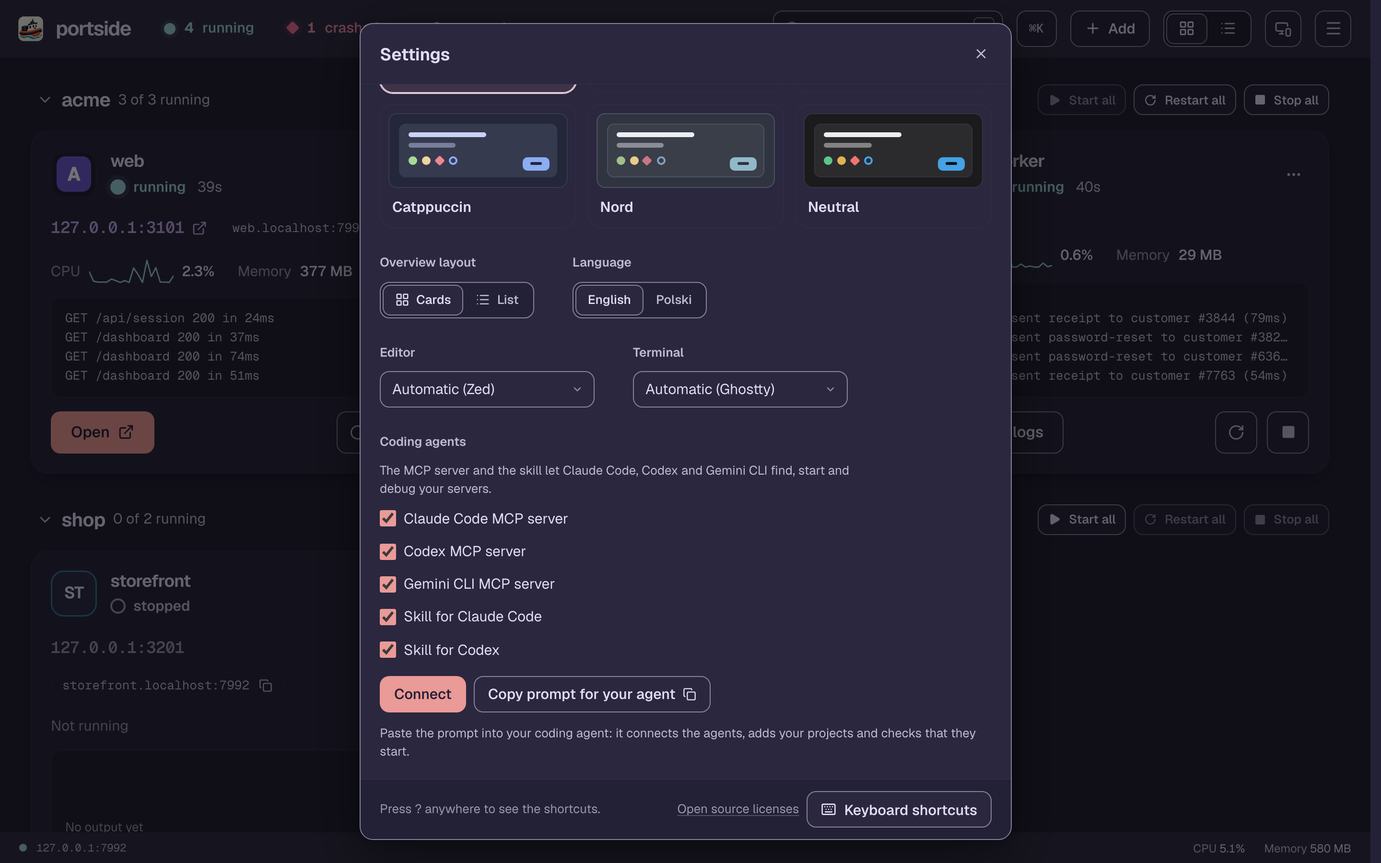
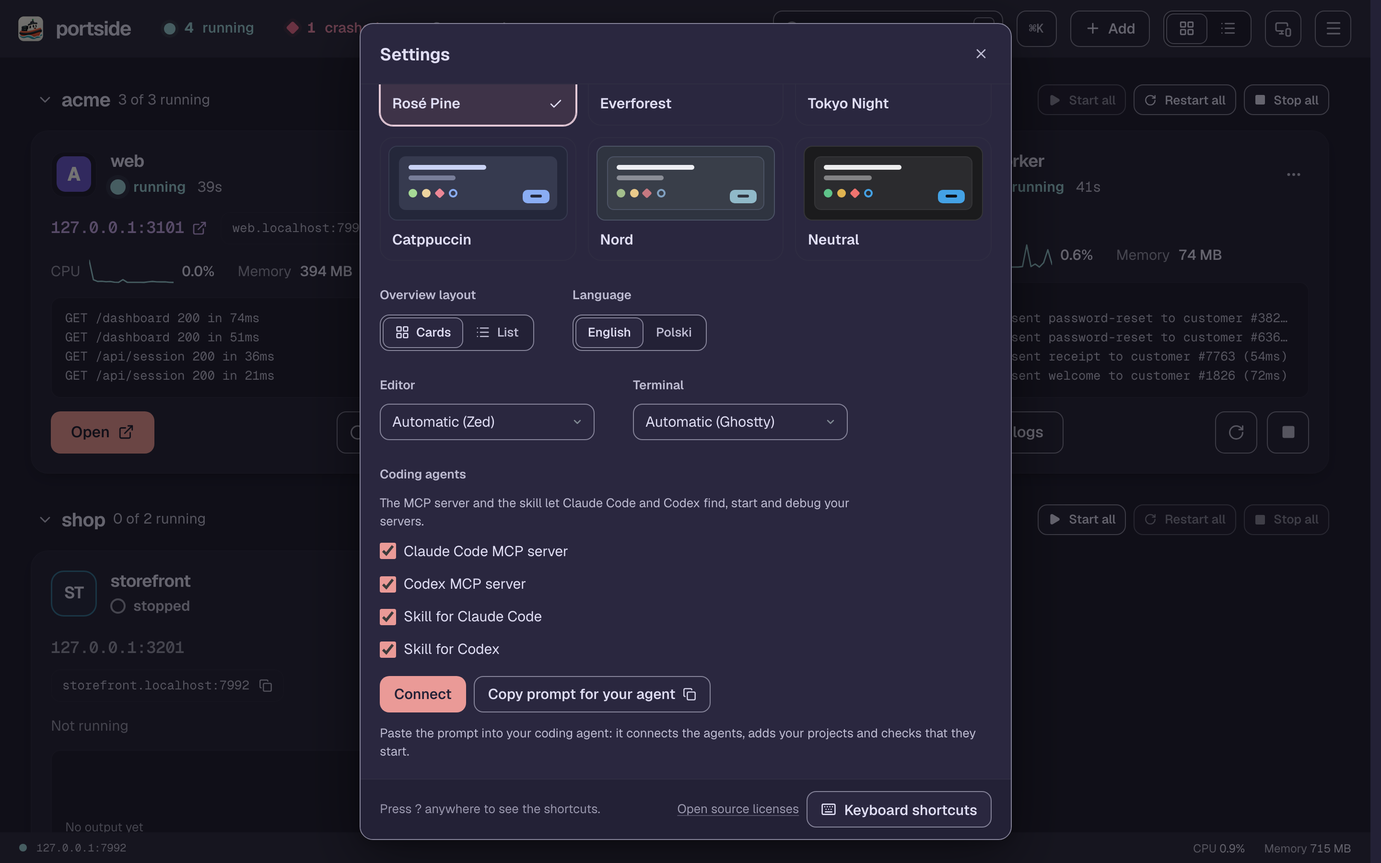
Coding agents: set up Claude Code and Codex only, without Gemini CLI

diff --git a/web/src/i18n/dictionary.ts b/web/src/i18n/dictionary.ts
@@ -315,8 +315,8 @@ export const en = {
 
   'agents.title': 'Coding agents',
   'agents.open': 'Connect coding agents',
-  'agents.body': 'The MCP server and the skill let Claude Code, Codex and Gemini CLI find, start and debug your servers.',
-  'agents.none': 'No coding agent (Claude Code, Codex, Gemini CLI) is installed for this account.',
+  'agents.body': 'The MCP server and the skill let Claude Code and Codex find, start and debug your servers.',
+  'agents.none': 'No coding agent (Claude Code or Codex) is installed for this account.',
   'agents.mcp': '{agent} MCP server',
   'agents.skill': 'Skill for {agent}',
   'agents.update': '{label} (update)',
@@ -811,8 +811,8 @@ export const pl: Record<Key, Message> = {
 
   'agents.title': 'Agenci kodujący',
   'agents.open': 'Podłącz agentów kodujących',
-  'agents.body': 'Serwer MCP i umiejętność pozwalają agentom Claude Code, Codex i Gemini CLI znajdować, uruchamiać i debugować Twoje serwery.',
-  'agents.none': 'Na tym koncie nie ma agenta (Claude Code, Codex, Gemini CLI).',
+  'agents.body': 'Serwer MCP i umiejętność pozwalają agentom Claude Code i Codex znajdować, uruchamiać i debugować Twoje serwery.',
+  'agents.none': 'Na tym koncie nie ma agenta (Claude Code ani Codex).',
   'agents.mcp': 'Serwer MCP dla {agent}',
   'agents.skill': 'Umiejętność dla {agent}',
   'agents.update': '{label} (aktualizacja)',

diff --git a/web/src/api/types.ts b/web/src/api/types.ts
@@ -238,7 +238,7 @@ export interface AppsView {
 
 /** One coding-agent setup step on this computer (internal/agentsetup). */
 export interface AgentItem {
-  /** `<agent>-mcp` or `<agent>-skill`, agent being claude, codex or gemini. */
+  /** `<agent>-mcp` or `<agent>-skill`, agent being claude or codex. */
   id: string
   state: 'ok' | 'missing' | 'outdated' | 'foreign' | 'unavailable'
   /** What applying it runs, or what to run by hand. */

diff --git a/web/src/features/agents/AgentSetup.tsx b/web/src/features/agents/AgentSetup.tsx
@@ -6,7 +6,7 @@ import { useT, type Translate } from '../../i18n'
 import { CopyButton } from '../../ui/CopyButton'
 import './agents.css'
 
-const AGENTS: Record<string, string> = { claude: 'Claude Code', codex: 'Codex', gemini: 'Gemini CLI' }
+const AGENTS: Record<string, string> = { claude: 'Claude Code', codex: 'Codex' }
 
 function label(t: Translate, item: AgentItem): string {
   const [agent = '', kind] = item.id.split('-')

diff --git a/internal/agentsetup/agentsetup.go b/internal/agentsetup/agentsetup.go
@@ -1,7 +1,7 @@
 // Package agentsetup is the optional setup for coding agents: the MCP server
-// registered with Claude Code, Codex and Gemini CLI, and the agent skill in
-// the Claude Code and Codex skill directories. It checks each item and
-// applies the missing ones, for `setup`, `doctor` and the menu bar app.
+// registered with Claude Code and Codex, and the agent skill in their skill
+// directories. It checks each item and applies the missing ones, for
+// `setup`, `doctor` and the menu bar app.
 package agentsetup
 
 import (
@@ -69,34 +69,26 @@ type Result struct {
 	Command string `json:"command,omitempty"`
 }
 
-// agent is a coding agent that can use the MCP server, and the skill when
-// it has a skill item.
+// agent is a coding agent that can use the MCP server and the skill.
 type agent struct {
 	key  string // item ID prefix; the agent of agentskill.Target
 	name string
 	cli  string
 	// dir is its configuration directory; it exists once the agent ran.
 	dir func(agentskill.Dirs) string
-	// envKey is the variable that moves dir; home gives its value for dirs
-	// and the default value.
+	// envKey is the variable that moves dir; def is dir's default.
 	envKey string
-	home   func(d agentskill.Dirs, def bool) string
+	def    func(agentskill.Dirs) string
 	// registered reports whether the MCP server is configured for it.
 	registered func(agentskill.Dirs) bool
 	add        func(exe string) []string // arguments that register the MCP server
-	skill      bool
 }
 
 var agents = []agent{
-	{key: "claude", name: "Claude Code", cli: "claude", skill: true,
+	{key: "claude", name: "Claude Code", cli: "claude",
 		dir:    func(d agentskill.Dirs) string { return d.Claude },
 		envKey: "CLAUDE_CONFIG_DIR",
-		home: func(d agentskill.Dirs, def bool) string {
-			if def {
-				return filepath.Join(d.Home, ".claude")
-			}
-			return d.Claude
-		},
+		def:    func(d agentskill.Dirs) string { return filepath.Join(d.Home, ".claude") },
 		registered: func(d agentskill.Dirs) bool {
 			// The file is in the home directory, or in CLAUDE_CONFIG_DIR
 			// when that is set.
@@ -108,15 +100,10 @@ var agents = []agent{
 		add: func(exe string) []string {
 			return []string{"mcp", "add", "--scope", "user", app.ID, "--", exe, "mcp"}
 		}},
-	{key: "codex", name: "Codex", cli: "codex", skill: true,
+	{key: "codex", name: "Codex", cli: "codex",
 		dir:    func(d agentskill.Dirs) string { return d.Codex },
 		envKey: "CODEX_HOME",
-		home: func(d agentskill.Dirs, def bool) string {
-			if def {
-				return filepath.Join(d.Home, ".codex")
-			}
-			return d.Codex
-		},
+		def:    func(d agentskill.Dirs) string { return filepath.Join(d.Home, ".codex") },
 		registered: func(d agentskill.Dirs) bool {
 			var cfg struct {
 				MCPServers map[string]toml.Primitive `toml:"mcp_servers"`
@@ -129,21 +116,6 @@ var agents = []agent{
 		},
 		add: func(exe string) []string {
 			return []string{"mcp", "add", app.ID, "--", exe, "mcp"}
-		}},
-	{key: "gemini", name: "Gemini CLI", cli: "gemini",
-		dir:    func(d agentskill.Dirs) string { return d.Gemini },
-		envKey: "GEMINI_CLI_HOME",
-		home: func(d agentskill.Dirs, def bool) string {
-			if def {
-				return d.Home
-			}
-			return filepath.Dir(d.Gemini)
-		},
-		registered: func(d agentskill.Dirs) bool {
-			return jsonHasServer(filepath.Join(d.Gemini, "settings.json"))
-		},
-		add: func(exe string) []string {
-			return []string{"mcp", "add", "--scope", "user", app.ID, exe, "mcp"}
 		}},
 }
 
@@ -242,8 +214,8 @@ func mcpItem(a agent, dirs agentskill.Dirs, exe string, t *tools) Item {
 // is not the default, since it may come only from the login shell's startup
 // files, which a CLI found on this process's PATH does not see.
 func agentEnv(a agent, dirs agentskill.Dirs, env []string) []string {
-	v := a.home(dirs, false)
-	if v == a.home(dirs, true) {
+	v := a.dir(dirs)
+	if v == a.def(dirs) {
 		return env
 	}
 	if env == nil {
@@ -269,9 +241,6 @@ func skillItems(dirs agentskill.Dirs, self, content string) []Item {
 	}
 	var items []Item
 	for i, a := range agents {
-		if !a.skill {
-			continue
-		}
 		path, ok := targets[a.key]
 		if !ok && installed(a) {
 			// Its skills directory is an earlier agent's, so that item covers it.
@@ -279,7 +248,7 @@ func skillItems(dirs agentskill.Dirs, self, content string) []Item {
 		}
 		label := "Skill for " + a.name
 		for _, b := range agents[i+1:] {
-			if _, own := targets[b.key]; b.skill && ok && !own && installed(b) {
+			if _, own := targets[b.key]; ok && !own && installed(b) {
 				label += " and " + b.name
 			}
 		}

diff --git a/internal/agentsetup/agentsetup_test.go b/internal/agentsetup/agentsetup_test.go
@@ -20,7 +20,7 @@ func fakeCLI(t *testing.T, bin, name string, code int) {
 	t.Helper()
 	script := `#!/bin/sh
 { printf '%s' "${0##*/}"; for a in "$@"; do printf ' %s' "$a"; done; printf '\n'; } >> "$FAKE_LOG"
-printf '%s CLAUDE_CONFIG_DIR=%s CODEX_HOME=%s GEMINI_CLI_HOME=%s\n' "${0##*/}" "$CLAUDE_CONFIG_DIR" "$CODEX_HOME" "$GEMINI_CLI_HOME" >> "$FAKE_ENV_LOG"
+printf '%s CLAUDE_CONFIG_DIR=%s CODEX_HOME=%s\n' "${0##*/}" "$CLAUDE_CONFIG_DIR" "$CODEX_HOME" >> "$FAKE_ENV_LOG"
 `
 	if code != 0 {
 		script += "echo 'fake failure' >&2\nexit " + strconv.Itoa(code) + "\n"
@@ -59,7 +59,7 @@ func newSandbox(t *testing.T, clis map[string]int) sandbox {
 	t.Setenv("TERM", "dumb")
 	t.Setenv("FAKE_LOG", s.log)
 	t.Setenv("FAKE_ENV_LOG", s.envLog)
-	for _, k := range []string{"CLAUDE_CONFIG_DIR", "CODEX_HOME", "GEMINI_CLI_HOME"} {
+	for _, k := range []string{"CLAUDE_CONFIG_DIR", "CODEX_HOME"} {
 		t.Setenv(k, "")
 	}
 	self, err := os.Executable()
@@ -115,17 +115,16 @@ func byID(items []Item) map[string]Item {
 	return m
 }
 
-var allCLIs = map[string]int{"claude": 0, "codex": 0, "gemini": 0}
+var allCLIs = map[string]int{"claude": 0, "codex": 0}
 
 // agentConfigs are the files the agents keep their MCP servers in; only
 // their own CLIs may write them.
-var agentConfigs = []string{".claude.json", ".claude/.claude.json", ".codex/config.toml", ".gemini/settings.json"}
+var agentConfigs = []string{".claude.json", ".claude/.claude.json", ".codex/config.toml"}
 
 func TestCheckStatesAndApplyRunsAgentCLIs(t *testing.T) {
 	s := newSandbox(t, allCLIs)
 	s.mkdir(t, ".claude")
 	s.mkdir(t, ".codex")
-	s.mkdir(t, ".gemini")
 	cfg := filepath.Join(s.home, "cfg.toml")
 
 	items := Check(7123, cfg)
@@ -135,7 +134,6 @@ func TestCheckStatesAndApplyRunsAgentCLIs(t *testing.T) {
 	}{
 		"claude-mcp":   {Missing, "claude mcp add --scope user " + app.ID + " -- " + s.exe + " mcp"},
 		"codex-mcp":    {Missing, "codex mcp add " + app.ID + " -- " + s.exe + " mcp"},
-		"gemini-mcp":   {Missing, "gemini mcp add --scope user " + app.ID + " " + s.exe + " mcp"},
 		"claude-skill": {Missing, app.ID + " skill install"},
 		"codex-skill":  {Missing, app.ID + " skill install"},
 	}
@@ -162,7 +160,6 @@ func TestCheckStatesAndApplyRunsAgentCLIs(t *testing.T) {
 	wantArgv := []string{
 		"claude mcp add --scope user " + app.ID + " -- " + s.exe + " mcp",
 		"codex mcp add " + app.ID + " -- " + s.exe + " mcp",
-		"gemini mcp add --scope user " + app.ID + " " + s.exe + " mcp",
 	}
 	if argv := lines(t, s.log); strings.Join(argv, "\n") != strings.Join(wantArgv, "\n") {
 		t.Errorf("agent CLIs ran\n%s\nwant\n%s", strings.Join(argv, "\n"), strings.Join(wantArgv, "\n"))
@@ -189,7 +186,6 @@ func TestCheckStatesAndApplyRunsAgentCLIs(t *testing.T) {
 	}
 	s.write(t, ".claude.json", `{"mcpServers":{"`+app.ID+`":{"command":"x"}}}`)
 	s.write(t, ".codex/config.toml", "[mcp_servers."+app.ID+"]\ncommand = \"x\"\n")
-	s.write(t, ".gemini/settings.json", `{"mcpServers":{"`+app.ID+`":{}}}`)
 	for id, it := range byID(Check(7123, cfg)) {
 		if it.State != OK {
 			t.Errorf("%s = %s with the server registered, want ok", id, it.State)
@@ -276,9 +272,9 @@ func TestMCPItemWithoutCLI(t *testing.T) {
 }
 
 func TestApplyReportsCLIFailure(t *testing.T) {
-	s := newSandbox(t, map[string]int{"claude": 0, "codex": 0, "gemini": 3})
-	s.mkdir(t, ".gemini")
-	it := byID(Check(7123, "/cfg.toml"))["gemini-mcp"]
+	s := newSandbox(t, map[string]int{"claude": 0, "codex": 3})
+	s.mkdir(t, ".codex")
+	it := byID(Check(7123, "/cfg.toml"))["codex-mcp"]
 	r := Apply(context.Background(), []Item{it})[0]
 	if r.OK || r.Changed || !strings.Contains(r.Error, "fake failure") || r.Command != it.Command {
 		t.Errorf("Apply = %+v, want a failure with the CLI's message and the manual command", r)

diff --git a/internal/agentskill/agentskill_test.go b/internal/agentskill/agentskill_test.go
@@ -17,7 +17,7 @@ func isolate(t *testing.T) string {
 	home := t.TempDir()
 	t.Setenv("HOME", home)
 	t.Setenv("TERM", "dumb")
-	for _, k := range []string{"CLAUDE_CONFIG_DIR", "CODEX_HOME", "GEMINI_CLI_HOME"} {
+	for _, k := range []string{"CLAUDE_CONFIG_DIR", "CODEX_HOME"} {
 		t.Setenv(k, "")
 	}
 	return home
@@ -73,30 +73,28 @@ func TestLocateHonoursAgentVariables(t *testing.T) {
 	custom := t.TempDir()
 	tests := []struct {
 		name                string
-		claude, codex, gem  string // variable values
+		claude, codex       string // variable values
 		wantClaude, wantCdx string
-		wantGemini          string
 	}{
-		{"defaults", "", "", "",
-			filepath.Join(home, ".claude"), filepath.Join(home, ".codex"), filepath.Join(home, ".gemini")},
-		{"absolute", filepath.Join(custom, "c"), filepath.Join(custom, "x"), filepath.Join(custom, "g"),
-			filepath.Join(custom, "c"), filepath.Join(custom, "x"), filepath.Join(custom, "g", ".gemini")},
-		{"tilde", "~/cc", "~/cx", "~/cg",
-			filepath.Join(home, "cc"), filepath.Join(home, "cx"), filepath.Join(home, "cg", ".gemini")},
-		{"relative ignored", "rel/c", "rel/x", "rel/g",
-			filepath.Join(home, ".claude"), filepath.Join(home, ".codex"), filepath.Join(home, ".gemini")},
+		{"defaults", "", "",
+			filepath.Join(home, ".claude"), filepath.Join(home, ".codex")},
+		{"absolute", filepath.Join(custom, "c"), filepath.Join(custom, "x"),
+			filepath.Join(custom, "c"), filepath.Join(custom, "x")},
+		{"tilde", "~/cc", "~/cx",
+			filepath.Join(home, "cc"), filepath.Join(home, "cx")},
+		{"relative ignored", "rel/c", "rel/x",
+			filepath.Join(home, ".claude"), filepath.Join(home, ".codex")},
 	}
 	for _, tt := range tests {
 		t.Run(tt.name, func(t *testing.T) {
 			t.Setenv("CLAUDE_CONFIG_DIR", tt.claude)
 			t.Setenv("CODEX_HOME", tt.codex)
-			t.Setenv("GEMINI_CLI_HOME", tt.gem)
 			d, err := Locate()
 			if err != nil {
 				t.Fatal(err)
 			}
-			if d.Home != home || d.Claude != tt.wantClaude || d.Codex != tt.wantCdx || d.Gemini != tt.wantGemini {
-				t.Errorf("Locate = %+v, want home %s claude %s codex %s gemini %s", d, home, tt.wantClaude, tt.wantCdx, tt.wantGemini)
+			if d.Home != home || d.Claude != tt.wantClaude || d.Codex != tt.wantCdx {
+				t.Errorf("Locate = %+v, want home %s claude %s codex %s", d, home, tt.wantClaude, tt.wantCdx)
 			}
 		})
 	}

diff --git a/internal/cli/setup_test.go b/internal/cli/setup_test.go
@@ -13,7 +13,7 @@ import (
 	"github.com/padmk/portside/internal/app"
 )
 
-// agentSandbox puts fake claude, codex and gemini CLIs, which append their
+// agentSandbox puts fake claude and codex CLIs, which append their
 // arguments to the returned log, and a link to this test binary as the
 // product's command on an otherwise empty PATH. With all of them on PATH
 // and TERM set, setup never reads the login shell, whose PATH could hold
@@ -30,11 +30,11 @@ func agentSandbox(t *testing.T) (home, log string) {
 	t.Setenv("PATH", bin)
 	t.Setenv("TERM", "dumb")
 	t.Setenv("FAKE_LOG", log)
-	for _, k := range []string{"CLAUDE_CONFIG_DIR", "CODEX_HOME", "GEMINI_CLI_HOME"} {
+	for _, k := range []string{"CLAUDE_CONFIG_DIR", "CODEX_HOME"} {
 		t.Setenv(k, "")
 	}
 	script := "#!/bin/sh\n{ printf '%s' \"${0##*/}\"; for a in \"$@\"; do printf ' %s' \"$a\"; done; printf '\\n'; } >> \"$FAKE_LOG\"\n"
-	for _, name := range []string{"claude", "codex", "gemini"} {
+	for _, name := range []string{"claude", "codex"} {
 		if err := os.WriteFile(filepath.Join(bin, name), []byte(script), 0o755); err != nil {
 			t.Fatal(err)
 		}
@@ -86,7 +86,7 @@ func TestSetupJSONShape(t *testing.T) {
 			t.Errorf("applicable of %v is not a bool", it["id"])
 		}
 	}
-	wantIDs := []string{"claude-mcp", "codex-mcp", "gemini-mcp", "claude-skill", "codex-skill"}
+	wantIDs := []string{"claude-mcp", "codex-mcp", "claude-skill", "codex-skill"}
 	if !reflect.DeepEqual(ids, wantIDs) {
 		t.Errorf("ids %v, want %v", ids, wantIDs)
 	}

diff --git a/internal/cli/cli.go b/internal/cli/cli.go
@@ -171,7 +171,7 @@ func init() {
 		{names: []string{"share"}, section: "Daemon", usage: "share [on|off|code|devices|revoke <device>]", summary: "Let your paired devices on Tailscale connect to this computer", run: cmdShare},
 		{names: []string{"mcp"}, section: "Daemon", usage: "mcp", summary: "MCP server on stdio for coding agents", run: cmdMCP},
 		{names: []string{"skill"}, section: "Daemon", usage: "skill install [--force] | print", summary: "Install the agent skill for Claude Code and Codex", run: cmdSkill},
-		{names: []string{"setup"}, section: "Daemon", usage: "setup [--yes] [--json] | --apply <id>[,<id>...] --yes | --print-mcp | --print-prompt", summary: "Connect Claude Code, Codex and Gemini CLI: the MCP server and the agent skill", run: cmdSetup},
+		{names: []string{"setup"}, section: "Daemon", usage: "setup [--yes] [--json] | --apply <id>[,<id>...] --yes | --print-mcp | --print-prompt", summary: "Connect Claude Code and Codex: the MCP server and the agent skill", run: cmdSetup},
 		{names: []string{"doctor"}, section: "Daemon", usage: "doctor [--fix]", summary: "Check the setup and explain problems; --fix connects coding agents", run: cmdDoctor},
 		{names: []string{"version"}, section: "Daemon", usage: "version", summary: "Print the version", run: cmdVersion},
 	}

diff --git a/internal/cli/setup.go b/internal/cli/setup.go
@@ -60,7 +60,7 @@ func cmdSetup(e *env, args []string) error {
 	}
 
 	if !agentsetup.Applicable(items) {
-		fmt.Fprintf(e.out, "No coding agent (Claude Code, Codex, Gemini CLI) is installed for this account; nothing to set up. `%s setup --print-mcp` prints the MCP entry for other clients.\n", app.ID)
+		fmt.Fprintf(e.out, "No coding agent (Claude Code, Codex) is installed for this account; nothing to set up. `%s setup --print-mcp` prints the MCP entry for other clients.\n", app.ID)
 		return nil
 	}
 	var todo []agentsetup.Item
@@ -122,7 +122,7 @@ func printResults(e *env, results []agentsetup.Result) []agentsetup.Result {
 func doctorAgents(e *env, fix bool, ok, warn, bad func(string, ...any)) {
 	items := agentsetup.Check(e.port(), e.cfgPath)
 	if !agentsetup.Applicable(items) {
-		fmt.Fprintf(e.out, "%s no coding agent found (Claude Code, Codex, Gemini CLI)\n", e.paint(dim, "•"))
+		fmt.Fprintf(e.out, "%s no coding agent found (Claude Code, Codex)\n", e.paint(dim, "•"))
 		return
 	}
 	for _, it := range items {

diff --git a/internal/agentskill/dirs.go b/internal/agentskill/dirs.go
@@ -14,7 +14,6 @@ type Dirs struct {
 	Home   string
 	Claude string // CLAUDE_CONFIG_DIR, else ~/.claude
 	Codex  string // CODEX_HOME, else ~/.codex
-	Gemini string // GEMINI_CLI_HOME/.gemini, else ~/.gemini
 }
 
 // Locate resolves the agents' directories from their environment
@@ -39,7 +38,6 @@ func Locate() (Dirs, error) {
 		Home:   home,
 		Claude: dir("CLAUDE_CONFIG_DIR", filepath.Join(home, ".claude")),
 		Codex:  dir("CODEX_HOME", filepath.Join(home, ".codex")),
-		Gemini: filepath.Join(dir("GEMINI_CLI_HOME", home), ".gemini"),
 	}, nil
 }
 

diff --git a/AGENTS.md b/AGENTS.md
@@ -18,7 +18,7 @@ Local dev-server manager: Go daemon + CLI (`cmd/portside`) with an embedded Reac
 - `internal/docker`: Docker Engine API client over the active context's endpoint (`endpoint.go`: context resolution, TLS settings and the engine socket candidates; `dial.go`: unix, TCP with TLS, and SSH through `docker system dial-stdio`; `client.go`), the live container monitor with events and stats (`monitor.go`; `Publishing` lists the containers behind a port, which `publishedBy` in `internal/server/containerowners.go` matches to the starting server so the supervisor can treat a hidden listener as that compose stack's port; ssh:// engines poll stats one-shot instead of a stream per container), engine start detection and engine-specific errors (`engine.go`), compose service and project jobs (`job.go`), and deliberate stop persistence (`stopstate.go`). Compose jobs shell out to the docker CLI (or `docker-compose`, `podman compose`, `podman-compose`); lifecycle and logs use the Engine API.
 - `internal/server`: HTTP API, WebSockets (`/api/events`, `/api/servers/{name}/terminal`), host/origin guard and `*.localhost` proxy (`server.go`), routes (`routes.go`; log and terminal streaming in `terminal.go`, config editing in `configroutes.go`), opening folders, editors and terminals and the detected apps behind the Settings pickers (`desktop.go`; macOS apps by bundle ID through Launch Services, Linux commands on PATH), plain-text log replies with search and size limits (`loglines.go`). Authentication (`auth.go`): requests signed with the token for the daemon's epoch (random per start; `/api/health` answers a challenge with the epoch and a proof, and authenticated replies carry a proof of their status and body, buffered in `proved` in `server.go`; WebSocket upgrades the short proof), a bearer token for manual use, single-use sign-in links (`/api/auth/code` returns them on `http://127.0.0.1:<port>/auth` so process arguments never show the dashboard host, plus the dashboard address separately) forwarded to the dashboard host and redeemed there only on a connection from another process of the daemon's account (`fromOwner`, `ports.ConnectionOwner`: `/proc/net/tcp{,6}` on Linux, `lsof` on macOS, refused elsewhere; looked up once per connection through `ConnContext`, which the daemon's `http.Server` sets, and failed lookups are tried again), and the dashboard session, whose cookie is accepted only on such a connection too: the dashboard is served only at `http://d-<24 hex>.localhost:<port>` (new on every cold start, carried across an upgrade in `handoff.json` when all listening sockets came over, new when the daemon had to listen anew; reserved by `config.IsDashboardLabel`), the cookie (`HMAC(token, "dashboard session", host)`) is accepted only there, other `d-<hex>.localhost` hosts get the sign-in hint (`staleDashboard`, marked with `X-<product>-Sign-In`, which makes the app's window sign in again), and `127.0.0.1`/`localhost` serve the API plus that hint without revealing the host. `internal/signing`: the one request-signing scheme (HMAC over method, request URI, time, nonce, body hash and epoch; time window, nonce cache, epoch check, and challenge proofs `HMAC(key, "server", challenge, epoch)`, for whole replies with the status and body hash added; each MAC kind has its own part count), used by local clients with the token and by paired devices with their key; `macos/Sources/Portside/Signing.swift` mirrors it. The JSON shapes here are the dashboard's contract.
 - `internal/daemon`: daemon process (lock, listeners on `127.0.0.1` and `[::1]`, the latter required unless the system has no IPv6 loopback, also after a handoff; signals; port choice in `port.go`: when the config sets no `port`, `listenConfigured` tries the port kept in `<state>/auto-port` (`SavedPort`), the default, then `app.FallbackPorts` (7879-7899, 17879-17899), counting anything that accepts connections on either loopback address as taken, and keeps a fallback port in `auto-port`, never in the config; it refuses with `ErrPortHeld` (a clean exit) instead of moving when this product of this account holds the port (`client.PortHolder`); a taken explicit port fails naming the holder; an upgrade that cannot bind a newly configured port keeps the inherited sockets (`takeOverListeners`); writes `<state>/daemon.port` so clients find a daemon on another port than the config says). In-place upgrades (`upgrade.go`): `POST /api/upgrade` (denied to peers) checks the given binary, then the main loop writes `<state>/handoff.json`, keeps the lock, listening sockets and server terminals open across `syscall.Exec` and re-executes in the same pid; the new daemon finds the file through a nonce in the environment, adopts the servers before `Recover` and serves on the inherited sockets. On success the request gets no reply; `daemon restart` then waits for the new `startedAt` and version, and falls back to stop and start for a daemon without the route. The stop marker `<state>/stopped` is written by a deliberate stop (`/api/shutdown` without `restart`, `daemon stop`, `service uninstall`) and removed by every daemon start except one taking over from an upgrade, which then stops instead (a stop wins over a pending upgrade); while it exists the macOS app polls `daemon info --no-start` instead of starting a daemon. `daemon info` is the app's contract: JSON on stdout, exit 3 when no daemon runs (`--no-start`), 4 with `configError` when the config does not load; `verified: false` with the claimed version when what answers cannot prove itself (the app then offers a restart). A daemon that loses the lock exits 0, and so does a shutdown, so launchd and systemd only restart crashes. `internal/client`: CLI-to-daemon HTTP client with auto-spawn (through the login service when it runs this daemon); it proves the daemon first (`Ping` repeats the handshake; `Health.Verified`), signs every request and WebSocket dial (`DialWebSocket`) for the proven epoch, checks reply proofs, repeats the handshake once after a 401, and never sends the token; an unproven daemon gets `ErrUnverified` and nothing signed. `Ensure` starts a daemon also when a foreign program or another account's daemon holds the port and no daemon holds the state lock (`DaemonRunning`), then follows `daemon.port`; it starts none while this product of this account holds the port (`PortHolder` in `holder.go`: only an lsof/ss owner of the same uid whose command is this product's binary counts, never a pid claimed by the health reply or an ssh tunnel; state directory from the open lock file) and never one from an agent sandbox (`Sandboxed`, `ErrSandboxed`). `daemon restart` accepts only a verified daemon and follows `daemon.port` while it comes up. `daemon restart` and `stop` send a daemon from before verified requests SIGTERM after checking it is this user's listener on the port at `127.0.0.1` and at `::1` when something answers there and that it holds this state directory's lock (`shutdown` and `daemonListens` in `internal/cli/daemoncmds.go`). `doctor` checks that the daemon itself answers on `[::1]`.
-- `internal/cli`: commands (`browser.go`: the browser `open` uses, or none so the sign-in link is printed). `internal/mcpserver`: MCP tools over stdio (servers, containers, logs with `match`). `internal/agentskill`: the agent skill (`skill.md`, a template filled from `internal/app`), installed by `portside skill install` and refreshed by the main daemon on start; keep it in line with the CLI and MCP tools. `dirs.go` locates the agents' directories (`CLAUDE_CONFIG_DIR`, `CODEX_HOME`, `GEMINI_CLI_HOME`, read from the login shell when the process has no terminal); Codex gets `~/.agents/skills` unless an earlier copy is in `$CODEX_HOME/skills`. `internal/agentsetup`: the one list of coding-agent setup items (Claude Code, Codex and Gemini CLI MCP registration through their `claude`/`codex`/`gemini mcp add` CLIs, found on PATH or the login shell's PATH, with a stable path to this binary; the skill per agent), their states and how each is applied; used by `setup` (`internal/cli/setup.go`: y/N prompt, `--yes`, `--json`, and `--apply <ids> --yes` printing JSON results, which is the app's contract; `--print-mcp` prints the `mcpServers` entry for other clients, `--print-prompt` the setup request for a coding agent from `prompt.md`; `share-prompt.md` is the request for Tailscale, sharing and pairing, printed by `computers --print-prompt` and served with `GET /api/remote/peers`; keep both in line with the CLI). The dashboard shows the same items through `GET /api/agents` and `POST /api/agents/apply` (`internal/server/agents.go`, refused to paired devices; `web/src/features/agents`) on its empty page and in Settings, `doctor` (read-only; `--fix` applies missing and outdated items) and the app. It never edits agent config files itself and never replaces a foreign skill file. `internal/service`: launchd/systemd (install, start and restart through the service, systemd linger check; the definition pins the config and state locations; on Linux install and start import the desktop session variables into the user manager, without a `DISPLAY` forwarded over SSH, and without systemd install returns `ErrNoSystemd` with a shell-profile hint); `service uninstall` first stops whatever daemon runs, also one started outside the service, the same way as `daemon stop`, then removes the service. `internal/paths`: config, state and log locations (`XDG_CONFIG_HOME`/`XDG_STATE_HOME` honored on Linux only, so the macOS app, CLI and launchd agree; `legacy.go` moves what earlier versions left there on macOS, run first by `cli.Main`, only directories with the product's marker files and nothing else, and not while a daemon or the launchd agent uses them; `service install` moves them through `MoveLegacyForService` before writing the agent), and their modes (`modes.go`: `0600` files, `0700` directories, and `Restrict`, which the daemon runs on start to drop group and other access; the default config and state directories are tightened with their contents, a custom config only as the file, and a custom state directory only itself, its logs and the files the product keeps in it (`stateEntries`; add new top-level state files there); never parents or unrelated files). `internal/discover`: project detection (walk, naming, configured-command filtering and shared port suggestions in `discover.go`; Node and Deno scripts, with script indirection and shell word parsing, in `node.go`; workspace roots and their package globs in `workspace.go`; Python and its runner in `python.go`; other frameworks and Compose in `backends.go`) for the API and CLI. Detection stays conservative: an automatic port only for a command known to take `{PORT}` or read `$PORT`, otherwise `noPort`; project-derived names (folders, script names) enter a generated command only when they match a plain-word pattern. `internal/ports`: listener lookup via `lsof`/`ss`.
+- `internal/cli`: commands (`browser.go`: the browser `open` uses, or none so the sign-in link is printed). `internal/mcpserver`: MCP tools over stdio (servers, containers, logs with `match`). `internal/agentskill`: the agent skill (`skill.md`, a template filled from `internal/app`), installed by `portside skill install` and refreshed by the main daemon on start; keep it in line with the CLI and MCP tools. `dirs.go` locates the agents' directories (`CLAUDE_CONFIG_DIR`, `CODEX_HOME`, read from the login shell when the process has no terminal); Codex gets `~/.agents/skills` unless an earlier copy is in `$CODEX_HOME/skills`. `internal/agentsetup`: the one list of coding-agent setup items (Claude Code and Codex MCP registration through their `claude`/`codex mcp add` CLIs, found on PATH or the login shell's PATH, with a stable path to this binary; the skill per agent), their states and how each is applied; used by `setup` (`internal/cli/setup.go`: y/N prompt, `--yes`, `--json`, and `--apply <ids> --yes` printing JSON results, which is the app's contract; `--print-mcp` prints the `mcpServers` entry for other clients, `--print-prompt` the setup request for a coding agent from `prompt.md`; `share-prompt.md` is the request for Tailscale, sharing and pairing, printed by `computers --print-prompt` and served with `GET /api/remote/peers`; keep both in line with the CLI). The dashboard shows the same items through `GET /api/agents` and `POST /api/agents/apply` (`internal/server/agents.go`, refused to paired devices; `web/src/features/agents`) on its empty page and in Settings, `doctor` (read-only; `--fix` applies missing and outdated items) and the app. It never edits agent config files itself and never replaces a foreign skill file. `internal/service`: launchd/systemd (install, start and restart through the service, systemd linger check; the definition pins the config and state locations; on Linux install and start import the desktop session variables into the user manager, without a `DISPLAY` forwarded over SSH, and without systemd install returns `ErrNoSystemd` with a shell-profile hint); `service uninstall` first stops whatever daemon runs, also one started outside the service, the same way as `daemon stop`, then removes the service. `internal/paths`: config, state and log locations (`XDG_CONFIG_HOME`/`XDG_STATE_HOME` honored on Linux only, so the macOS app, CLI and launchd agree; `legacy.go` moves what earlier versions left there on macOS, run first by `cli.Main`, only directories with the product's marker files and nothing else, and not while a daemon or the launchd agent uses them; `service install` moves them through `MoveLegacyForService` before writing the agent), and their modes (`modes.go`: `0600` files, `0700` directories, and `Restrict`, which the daemon runs on start to drop group and other access; the default config and state directories are tightened with their contents, a custom config only as the file, and a custom state directory only itself, its logs and the files the product keeps in it (`stateEntries`; add new top-level state files there); never parents or unrelated files). `internal/discover`: project detection (walk, naming, configured-command filtering and shared port suggestions in `discover.go`; Node and Deno scripts, with script indirection and shell word parsing, in `node.go`; workspace roots and their package globs in `workspace.go`; Python and its runner in `python.go`; other frameworks and Compose in `backends.go`) for the API and CLI. Detection stays conservative: an automatic port only for a command known to take `{PORT}` or read `$PORT`, otherwise `noPort`; project-derived names (folders, script names) enter a generated command only when they match a plain-word pattern. `internal/ports`: listener lookup via `lsof`/`ss`.
 - `internal/tailnet`: Tailscale status and Serve entries through the tailscale CLI. `internal/share`: lets the owner's paired devices in (Serve entry, listener and request checks in `share.go`, pairing codes and device tokens in `devices.go`). `internal/remote`: connects to another device's daemon (discovery, pairing, connecting and resuming in `peers.go`; `/api/peer` relay, `/api/tunnel` port tunnels and forwarded ports in `remote.go`; the macOS check for a local listener next to a forwarded port in `probe.go`; the saved connection and chosen local ports in `store.go`). The CLI reaches the connected computer through `client.On` (`--on`, `internal/cli/computers.go`), MCP tools through their `computer` argument. `internal/server/remote.go` holds their routes, the peer handler and `<name>.<computer>.localhost`; `web/src/features/remote` and the `/api` base switch in `web/src/api/client.ts` are the dashboard side.
 - `internal/server/containers.go`: container routes; logs, shell and job output stream over the same terminal WebSocket protocol as servers. Container ownership is in `containerowners.go`: explicit project names (servers sharing one ordered by the closest directory), closest Compose working directory, or a local CLI project ID from repository-bounded config lookup, over configured and temporary servers. It also watches container issues and uses the supervisor notifier guard.
 - `web/`: dashboard (Vite, React, xterm.js); `web/embed.go` embeds `web/dist`. Themes: `web/src/styles/themes/*.css` are copied unchanged from the shared ui-theme catalog; Portside's own per-theme tokens live in `web/src/styles/semantic.css` and terminal palettes in `web/src/theme/terminal.ts`.

diff --git a/docs/coding-agents.md b/docs/coding-agents.md
@@ -4,13 +4,13 @@ Portside gives coding agents the same servers you use, so they reuse a running s
 
 ## Setup
 
-Connect Claude Code, Codex and Gemini CLI once, with the MCP server and, for the first two, the [agent skill](#agent-skill):
+Connect Claude Code and Codex once, with the MCP server and the [agent skill](#agent-skill):
 
 ```sh
 portside setup
 ```
 
-It checks each agent installed for the account (its configuration directory exists: `~/.claude` or `$CLAUDE_CONFIG_DIR`, `~/.codex` or `$CODEX_HOME`, `~/.gemini` or `$GEMINI_CLI_HOME/.gemini`; or the `claude`, `codex` or `gemini` command is on PATH or the login shell's PATH), lists what is missing, asks once, and then runs `claude mcp add --scope user portside -- <path> mcp`, `codex mcp add portside -- <path> mcp` and `gemini mcp add --scope user portside <path> mcp` and installs the skill. When the variables are not set in its own environment, as for the app, setup reads them from the login shell. `<path>` is the `portside` on PATH when it is the same binary (such as `~/.local/bin/portside` or the Homebrew link), otherwise the binary's own path, such as `/Applications/Portside.app/Contents/Helpers/portside`.
+It checks each agent installed for the account (its configuration directory exists: `~/.claude` or `$CLAUDE_CONFIG_DIR`, `~/.codex` or `$CODEX_HOME`; or the `claude` or `codex` command is on PATH or the login shell's PATH), lists what is missing, asks once, and then runs `claude mcp add --scope user portside -- <path> mcp` and `codex mcp add portside -- <path> mcp` and installs the skill. When the variables are not set in its own environment, as for the app, setup reads them from the login shell. `<path>` is the `portside` on PATH when it is the same binary (such as `~/.local/bin/portside` or the Homebrew link), otherwise the binary's own path, such as `/Applications/Portside.app/Contents/Helpers/portside`.
 
 - `--yes` skips the question.
 - `--json` lists the items (`id`, `label`, `state`: `ok`, `missing`, `outdated`, `foreign` or `unavailable`, `applicable`, `command`).
@@ -39,7 +39,6 @@ Other MCP clients start the same server, `<path> mcp`, from their own config. `p
 - VS Code: `.vscode/mcp.json`, or the user one from **MCP: Open User Configuration**, uses `servers`: `{"servers": {"portside": {"type": "stdio", "command": "<path>", "args": ["mcp"]}}}`.
 - Zed: `context_servers` in `settings.json`: `{"context_servers": {"portside": {"command": "<path>", "args": ["mcp"]}}}`.
 - opencode: `mcp` in `~/.config/opencode/opencode.json`: `{"mcp": {"portside": {"type": "local", "command": ["<path>", "mcp"], "enabled": true}}}`.
-- Gemini CLI: `portside setup` adds it; by hand, `gemini mcp add --scope user portside <path> mcp`.
 
 ## MCP tools
 
